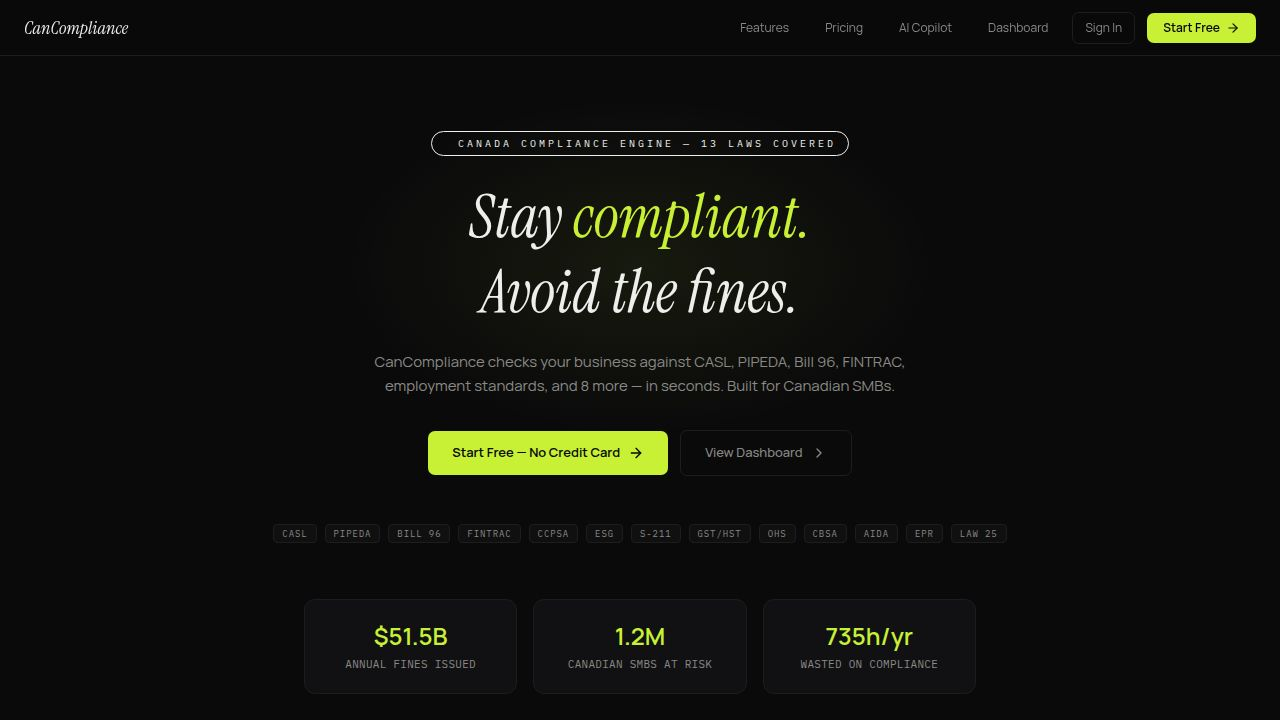
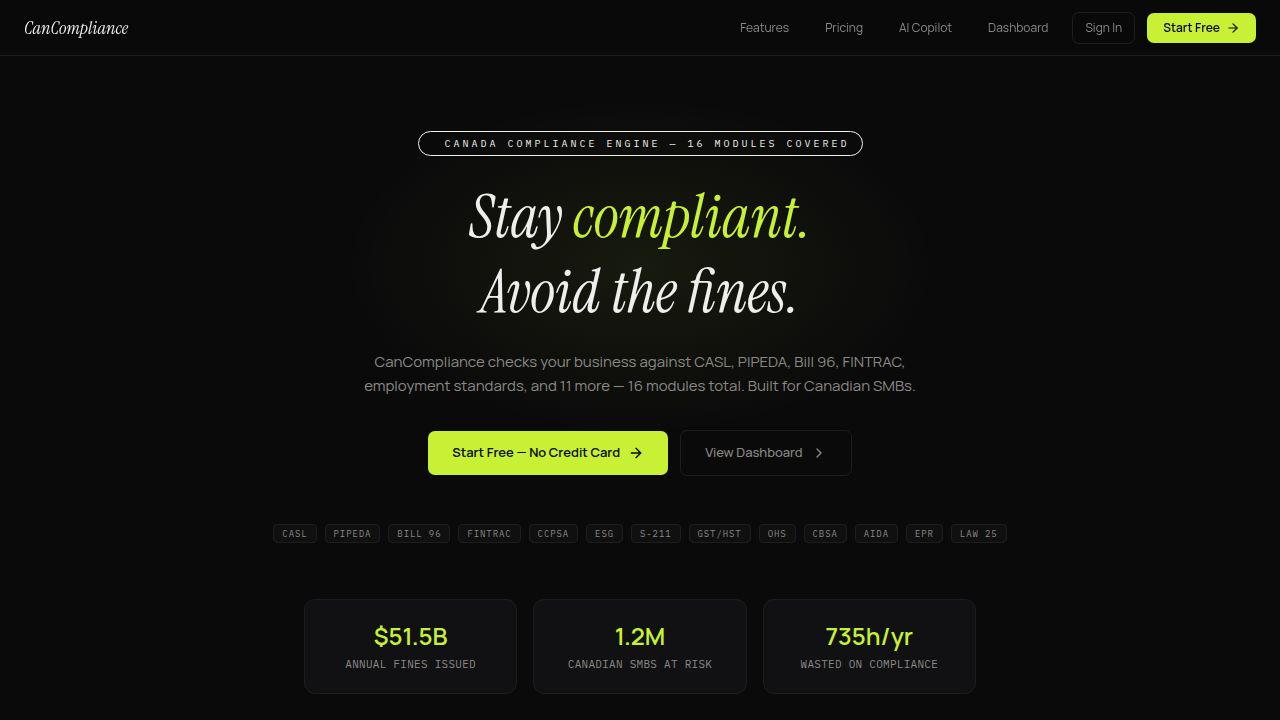
Improve application security by updating dependencies and fixing vulnerabilities
Update dependencies including drizzle-orm and vite, and address security vulnerabilities such as open redirects and XSS risks by implementing allowlist guards and safe rendering.

Replit-Commit-Author: Agent
Replit-Commit-Session-Id: fd68eb3f-e97f-4502-a848-16d6322794c4
Replit-Commit-Checkpoint-Type: full_checkpoint
Replit-Commit-Event-Id: 32a27774-6889-4177-aaf9-2350a285f7a7
Replit-Commit-Screenshot-Url: https://storage.googleapis.com/screenshot-production-us-central1/60e8f26d-db6e-41c8-9fbc-faed08ac10d6/fd68eb3f-e97f-4502-a848-16d6322794c4/xGMqE4W
Replit-Helium-Checkpoint-Created: true

Changed region(s): [[0.2812, 0.5194, 0.7188, 0.55], [0.3125, 0.1833, 0.6875, 0.2139]]

diff --git a/artifacts/cancompliance/src/pages/Pricing.tsx b/artifacts/cancompliance/src/pages/Pricing.tsx
@@ -159,10 +159,11 @@ export default function Pricing() {
                   <button
                     data-testid={`btn-cta-${tier.id}`}
                     onClick={() => {
-                      if (tier.ctaHref.startsWith("mailto:")) {
-                        window.location.href = tier.ctaHref;
-                      } else {
-                        setLocation(tier.ctaHref);
+                      const href = tier.ctaHref;
+                      if (href.startsWith("mailto:[email redacted]")) {
+                        window.location.href = href;
+                      } else if (href.startsWith("/")) {
+                        setLocation(href);
                       }
                     }}
                     className={`w-full py-2.5 rounded-lg text-[12px] font-semibold transition-colors ${

diff --git a/artifacts/cancompliance/src/components/ResultCard.tsx b/artifacts/cancompliance/src/components/ResultCard.tsx
@@ -53,8 +53,9 @@ export default function ResultCard({ result, title, statute, action, meta }: Res
 
       <div
         style={{ fontSize: 12.5, color: "var(--text2)", lineHeight: 1.7, marginBottom: meta && meta.length ? 16 : 0 }}
-        dangerouslySetInnerHTML={{ __html: action }}
-      />
+      >
+        {action}
+      </div>
 
       {meta && meta.length > 0 && (
         <div style={{

diff --git a/artifacts/cancompliance/src/pages/PricingPage.tsx b/artifacts/cancompliance/src/pages/PricingPage.tsx
@@ -264,7 +264,7 @@ export default function PricingPage() {
                   {tier.href.startsWith("mailto:") ? (
                     <button
                       data-testid={`btn-cta-${tier.id}`}
-                      onClick={() => { window.location.href = tier.href; }}
+                      onClick={() => { if (tier.href.startsWith("mailto:[email redacted]")) window.location.href = tier.href; }}
                       className="w-full py-3 rounded-xl text-[12px] font-semibold transition-colors border border-border text-muted-foreground hover:bg-muted hover:text-foreground"
                     >
                       {tier.cta}